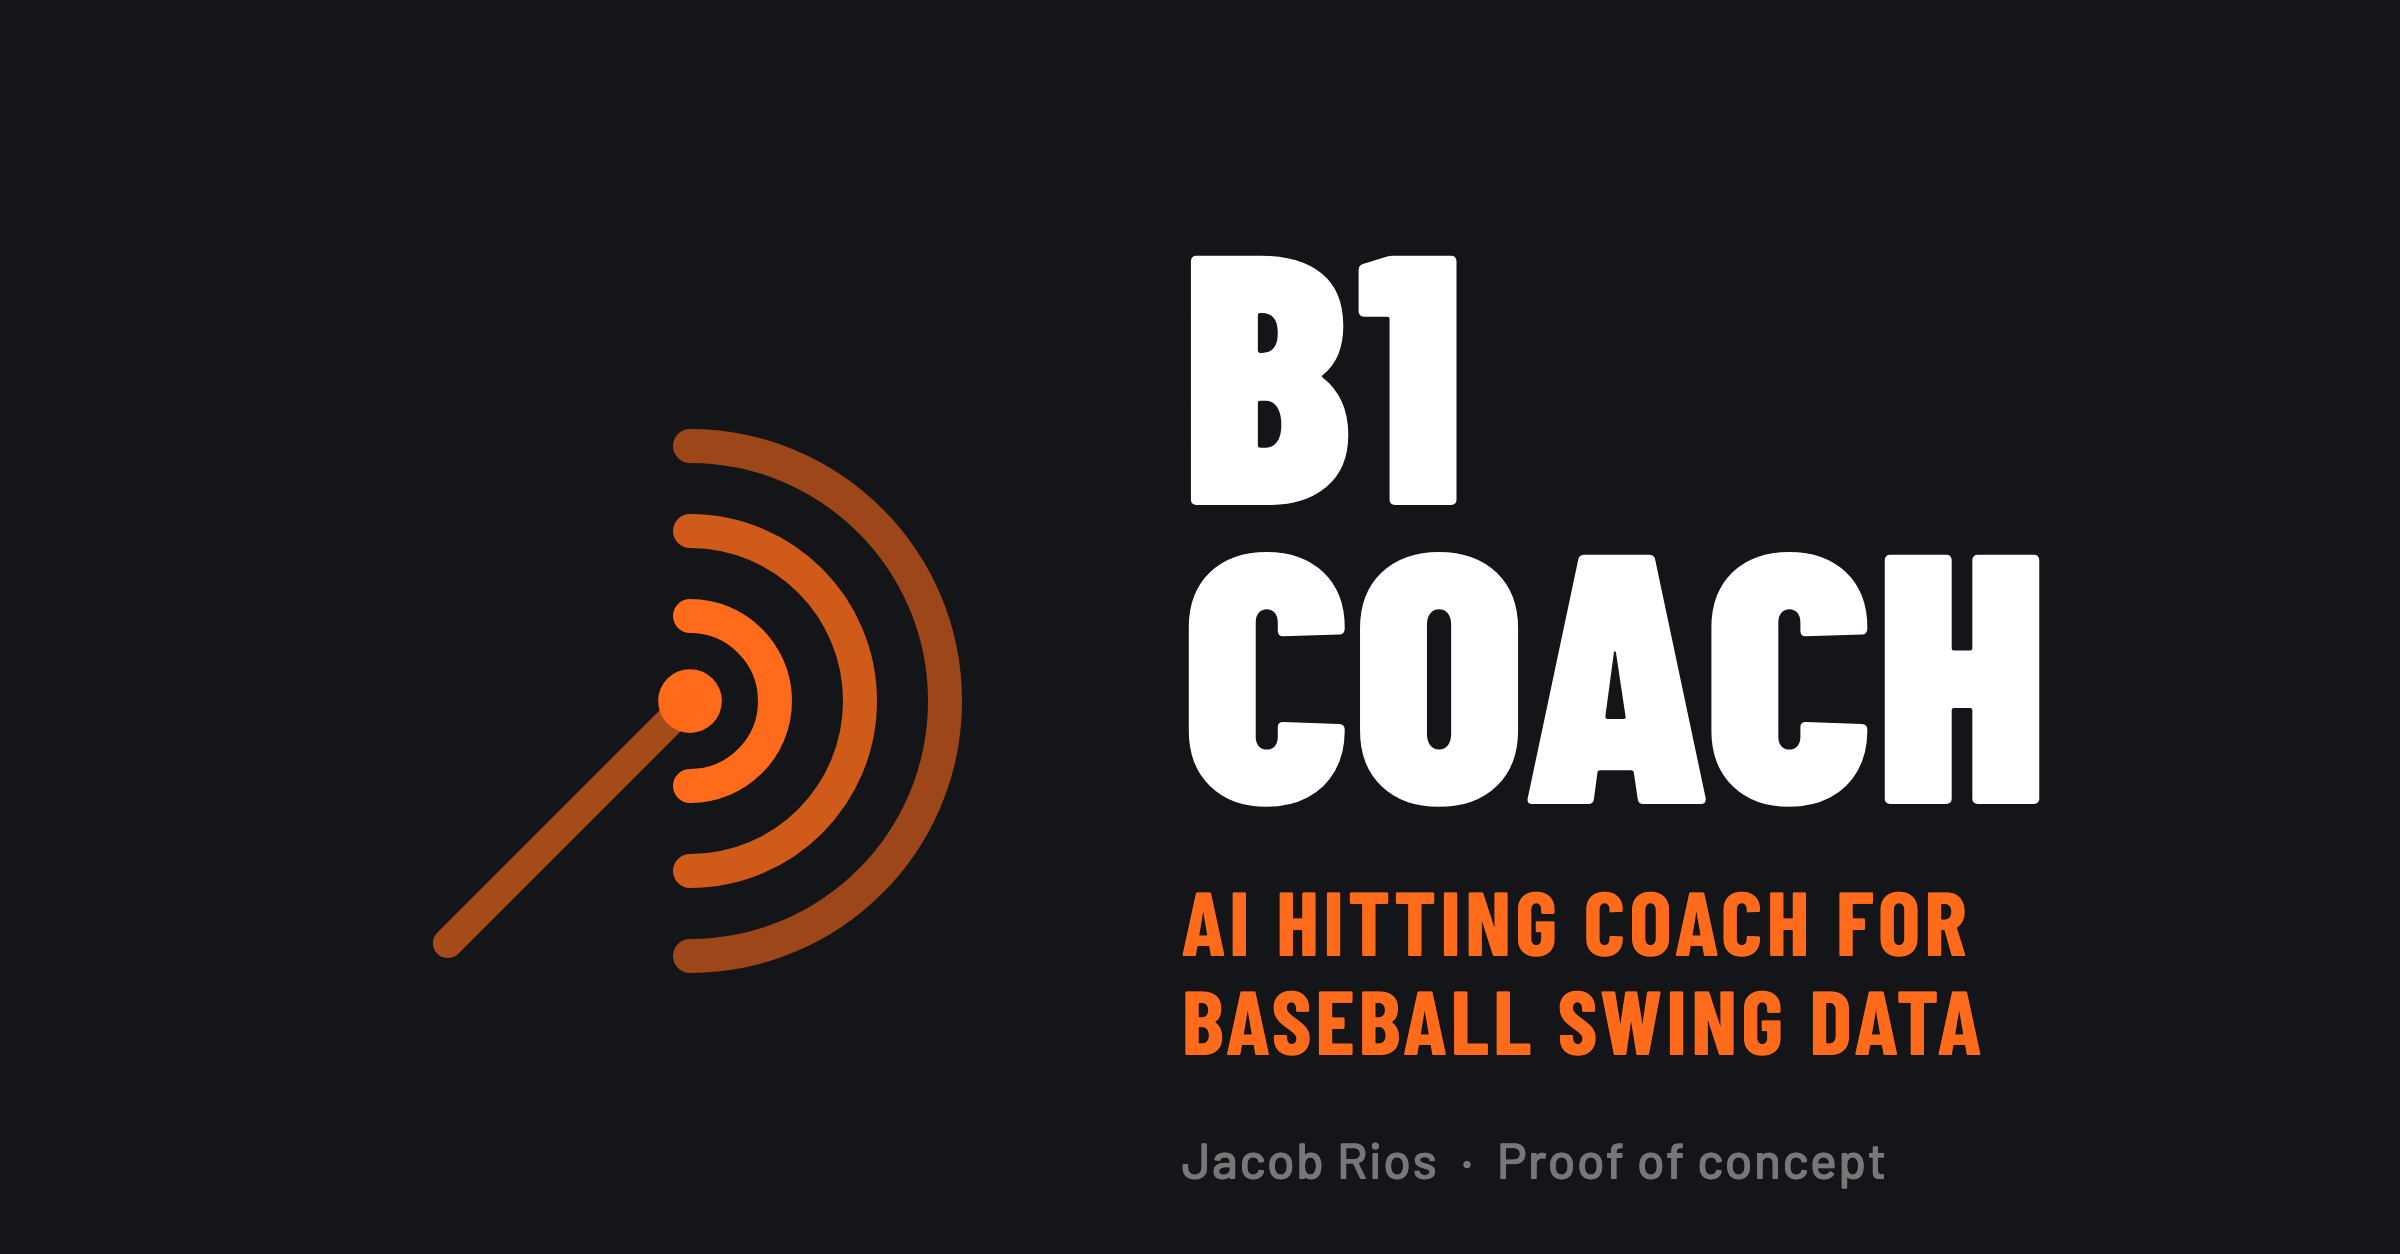
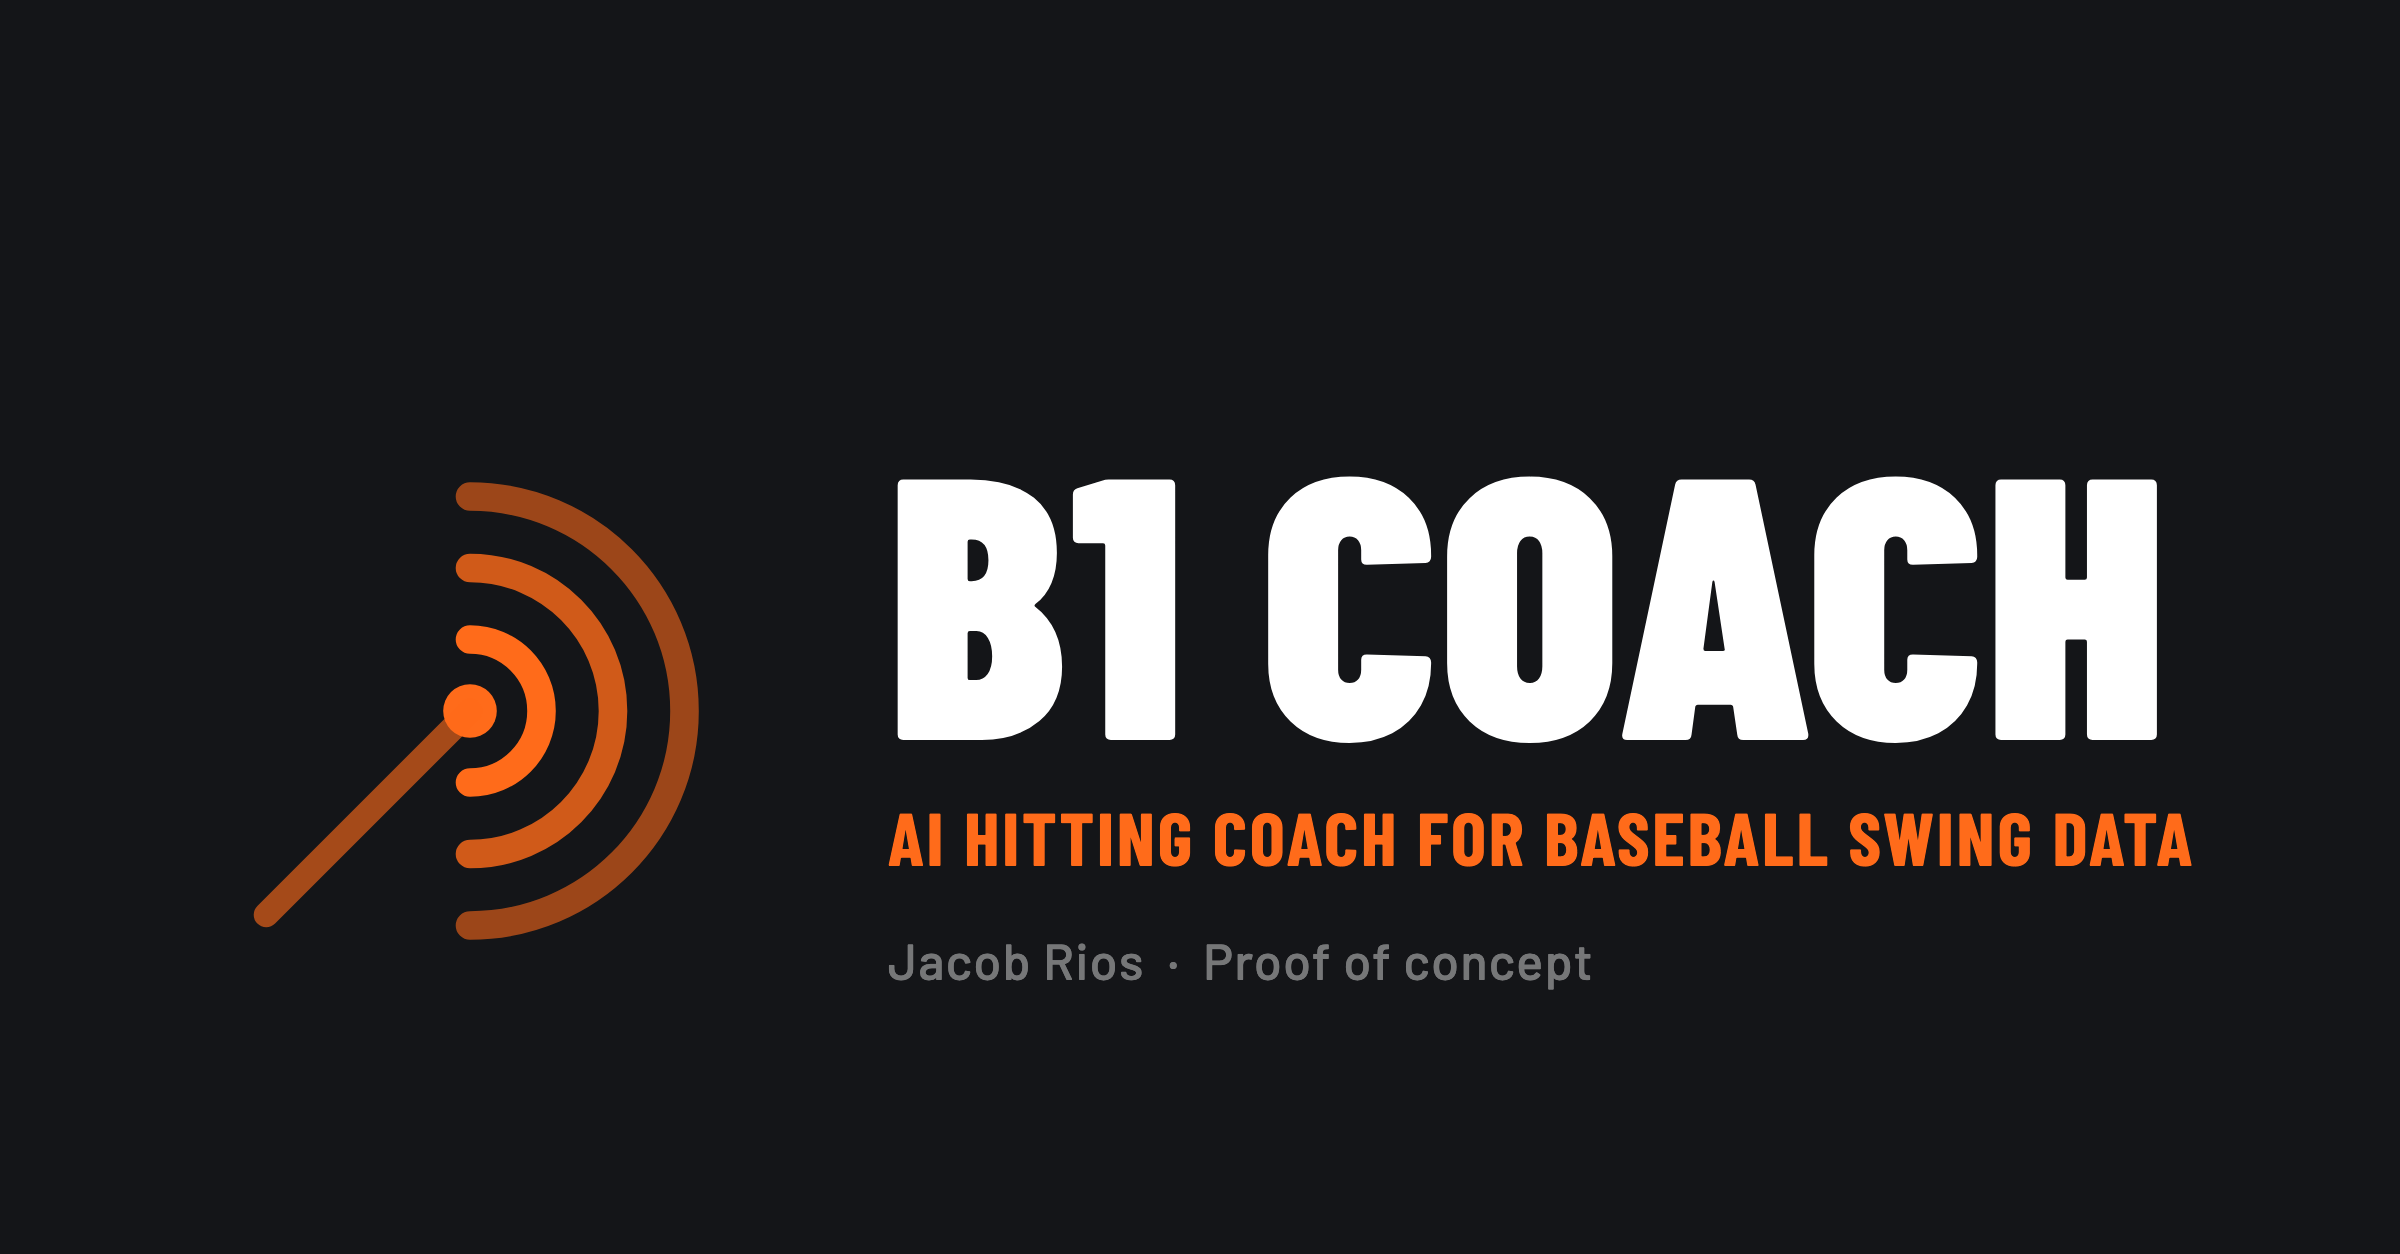
The share card puts B1 Coach on one line with the mark to the left
The product manager compared this against a card Claude Design produced,
preferred its single-line title and left-pushed mark, and preferred this
one's orange subheading. The shipped card takes both.

The title and subheading are set to near-identical ink widths, 640 and
653px, measured in a browser rather than guessed, so the two read as one
block. Re-measure both if either size changes; the subheading is nowrap
and only just fits.

Cost, measured and accepted: the subheading went 45px to 37px to fit on
one line, so it reads less well at the ~200px of a feed thumbnail. The
title grew and reads better. Both are comfortable at the larger size
LinkedIn's Featured section renders.

Suite 751 across 26, unchanged. Build succeeds. Card re-rendered from
its committed source.

Changed region(s): [[0.0938, 0.1866, 0.9375, 0.8397], [0.625, 0.9019, 0.7812, 0.9641], [0.5, 0.9019, 0.5938, 0.9641]]

diff --git a/design/share-card/card.html b/design/share-card/card.html
@@ -24,7 +24,7 @@
   dropped entirely because it is invisible at 16px.
 
   1. The arcs are at radius 4, 8 and 12, evenly spread; the app puts them at
-     2, 7 and 12. At 340px the innermost arc at radius 2 collides with the
+     2, 7 and 12. At this size the innermost arc at radius 2 collides with the
      centre dot and the three rings stop reading as three rings. Only the
      inner two moved: the outer arc is the app's radius-12 path unchanged,
      down to its digits.
@@ -39,6 +39,22 @@
      at 0.5. Thinner to match item 3; brighter because 0.5 goes brown here.
   6. The sweep starts at 4.6,27.4 rather than 4,28, which pulls it off the
      viewBox corner now that its cap is drawn large.
+
+  THE LAYOUT IS THE PRODUCT MANAGER'S, decided 8 September 2026 against a
+  version that stacked "B1" over "COACH" on two lines with the mark closer to
+  centre. He asked for the mark pushed left and the title on ONE line, keeping
+  the orange subheading. The title and subheading are deliberately set to
+  near-identical ink widths (about 640 and 653 px, measured rather than
+  guessed) so the two read as one block; changing either font size breaks that
+  and the other has to be re-measured to match. The subheading is `nowrap` on
+  purpose and at 37px it only just fits, so lengthening that sentence by even a
+  couple of words will push it off the right edge silently.
+
+  ONE COST OF THE ONE-LINE VERSION, measured and accepted: the subheading
+  dropped from 45px to 37px to fit, so it is harder to read at the ~200px a
+  feed thumbnail renders at. The title got bigger and reads better, which is
+  the trade he chose. In LinkedIn's own Featured section, which renders larger
+  than a feed card, both are comfortable.
 
   DO NOT put the "Powered by TrackMan" badge here, even though it sits beside
   this same mark in the app header. This card goes on a personal LinkedIn
@@ -55,17 +71,19 @@
   *{margin:0;padding:0;box-sizing:border-box}
   html,body{width:1200px;height:627px;background:#141518;overflow:hidden}
   .card{width:1200px;height:627px;display:flex;align-items:center;
-        justify-content:center;gap:76px;background:#141518;padding-top:74px}
+        justify-content:flex-start;gap:66px;background:#141518;
+        padding:84px 76px 0 92px}
   .type{display:flex;flex-direction:column}
-  h1{font-family:'Barlow Condensed';font-weight:900;font-size:178px;
-     line-height:0.84;color:#fff;letter-spacing:0.005em;text-transform:uppercase}
-  .sub{font-family:'Barlow Condensed';font-weight:700;font-size:45px;
-       line-height:1.1;color:#FF6B1A;letter-spacing:0.045em;
-       text-transform:uppercase;margin-top:30px}
+  h1{font-family:'Barlow Condensed';font-weight:900;font-size:186px;
+     line-height:0.86;color:#fff;letter-spacing:0.005em;
+     text-transform:uppercase;white-space:nowrap}
+  .sub{font-family:'Barlow Condensed';font-weight:700;font-size:37px;
+       line-height:1.1;color:#FF6B1A;letter-spacing:0.038em;
+       text-transform:uppercase;white-space:nowrap;margin-top:22px}
   .foot{font-family:'Barlow';font-weight:500;font-size:25px;
-        color:rgba(255,255,255,0.42);margin-top:30px;letter-spacing:0.03em}
+        color:rgba(255,255,255,0.42);margin-top:26px;letter-spacing:0.03em}
 </style></head><body><div class="card">
-  <svg width="340" height="340" viewBox="0 0 32 32" fill="none">
+  <svg width="286" height="286" viewBox="0 0 32 32" fill="none" style="flex:0 0 auto">
     <path d="M16 28C22.627 28 28 22.627 28 16S22.627 4 16 4"
       stroke="#FF6B1A" stroke-width="1.6" stroke-linecap="round" opacity="0.58"/>
     <path d="M16 24C20.418 24 24 20.418 24 16S20.418 8 16 8"
@@ -77,8 +95,8 @@
       stroke="#FF6B1A" stroke-width="1.4" stroke-linecap="round" opacity="0.62"/>
   </svg>
   <div class="type">
-    <h1>B1<br>Coach</h1>
-    <div class="sub">AI hitting coach for<br>baseball swing data</div>
+    <h1>B1 Coach</h1>
+    <div class="sub">AI hitting coach for baseball swing data</div>
     <div class="foot">Jacob Rios &nbsp;·&nbsp; Proof of concept</div>
   </div>
 </div></body></html>

diff --git a/docs/product-decisions-log.md b/docs/product-decisions-log.md
@@ -62,6 +62,19 @@ tags until they are deployed, so nobody has yet seen a real LinkedIn preview of
 this page. That is the first item on the QA script and it is a check only the
 product manager can run.
 
+*The layout was the product manager's call, made against a rendered
+alternative.* The first version stacked "B1" over "COACH" on two lines with the
+mark near the middle. He had Claude Design produce a competing card, preferred
+its single-line title and its mark pushed to the left edge, and preferred this
+one's orange subheading, so the shipped card takes both. It is worth recording
+that this was decided by looking at two rendered images rather than by
+describing them, which is the only way a layout question ever actually gets
+settled. **One cost, measured and accepted:** fitting the subheading on one line
+took it from 45px to 37px, so it reads less well at the roughly 200px a feed
+thumbnail renders at. The title grew and reads better. On LinkedIn's Featured
+section, which is where this link is actually going and which renders larger
+than a feed card, both are comfortable.
+
 *What review caught, and it was mostly the prose.* Nothing in the markup or the
 image was wrong. Four documentation claims were: this entry's "rewritten
 wholesale" above; a note in `design/share-card/card.html` announcing "two"
